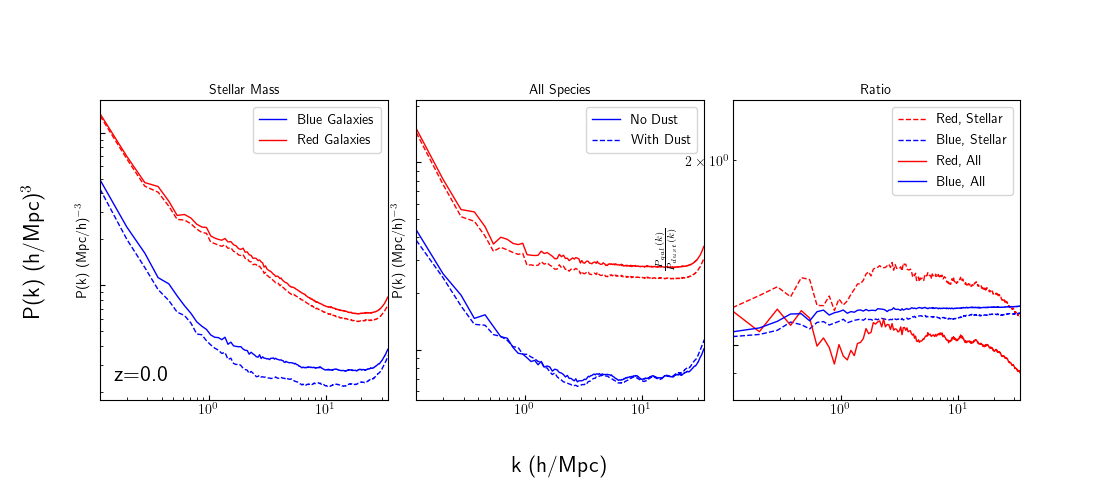
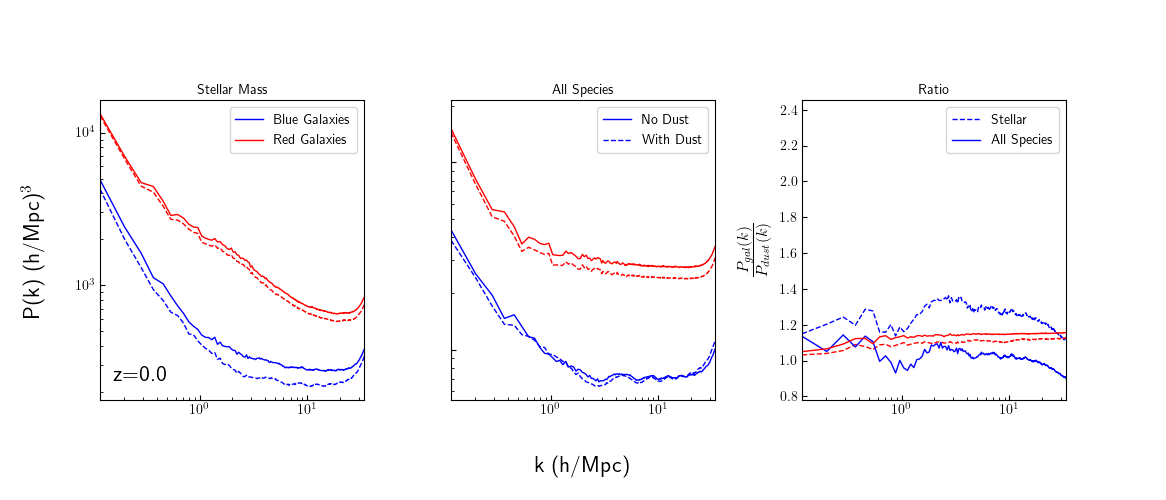
new plots!

diff --git a/hc_lib/plots/figures/galaxy_auto_pk.py b/hc_lib/plots/figures/galaxy_auto_pk.py
@@ -34,7 +34,7 @@ def get_suffix(field):
     suf = "%sB_%03dS_%dA_%dR"%tup
     return suf
 
-def galaxy_auto_redshift_vs_space(gals, panel_length = 3, panel_bt = 0.1, border = 1, fsize = 16):
+def galaxy_auto_redshift_vs_space(gals, panel_length = 3, panel_bt = 0.33, border = 1, fsize = 16):
     snapshots, redshifts = plib.getSnaps(gals)
     
     def match_snapshot(snapshot, fields):
@@ -47,7 +47,7 @@ def galaxy_auto_redshift_vs_space(gals, panel_length = 3, panel_bt = 0.1, border
     col_labels = ['Real Space', 'Redshift Space', 'Redshift Space Distortions']
     nrows = len(snapshots)
     ncols = len(col_labels)
-    fig, panels = plib.createFig(panel_length, nrows, ncols, panel_bt, 
+    fig, panels = plib.createFig(panel_length, nrows, ncols, [panel_bt*1.5, panel_bt], 
         border, border)
     
     yrange = [np.inf, 0]
@@ -60,8 +60,9 @@ def galaxy_auto_redshift_vs_space(gals, panel_length = 3, panel_bt = 0.1, border
             ax = plt.gca()
             colors = []
             labels = []
-
-            pkeys = plib.fetchKeys(['0.6', 'stmass'], ['rs','0.65','papa', 'all', 'eBOSS'], list(gal.pks.keys()))
+            #print(list(gal.pks.keys()))
+            pkeys = plib.fetchKeys(['0.6', 'stmass','CICW'], ['rs','0.65','papa', 'all', 'eBOSS'], list(gal.pks.keys()))
+            pkeys.append('resolved_CICW_stmass_diemer')
             if col_labels[j] == 'Redshift Space':
                 pkeys = [pkey + 'rs' for pkey in pkeys]
             for pkey in pkeys:
@@ -82,6 +83,7 @@ def galaxy_auto_redshift_vs_space(gals, panel_length = 3, panel_bt = 0.1, border
                     ratio_pks[pkey] = gal.pks[pkey+'rs']/gal.pks[pkey]
                 plib.plotpks(gal.pks['k'], ratio_pks, gal.box, gal.resolution,
                         pkeys, colors, labels)
+                plt.yscale('linear')
             else:
                 plib.plotpks(gal.pks['k'], gal.pks, gal.box, gal.resolution, pkeys,
                         colors, labels)
@@ -107,10 +109,11 @@ def galaxy_auto_redshift_vs_space(gals, panel_length = 3, panel_bt = 0.1, border
                     'z=%.1f'%redshifts[i], fontsize = fsize, ha = 'left', va = 'bottom',
                     fontweight = 'bold', transform = ax.transAxes)
             elif j == ncols - 1:
-                plt.ylabel(r'$\frac{P_{z}(k)}{P_{r}(k)}$')
-            
-            if not j == 0 or not j == ncols - 1:
+                plt.ylabel(r'$\frac{P_{z}(k)}{P_{r}(k)}$', fontsize=fsize)
+                ax.get_legend().remove()
+            else:
                 ax.set_yticklabels([])
+                ax.get_legend().remove()
 
 
     for i in range(nrows):
@@ -134,7 +137,7 @@ def dust_sensitivity_galaxy_resolution(gals, gdusts):
 
 
 def dust_sensitivity_color_cut(gals, gdusts, panel_length = 3, 
-        panel_bt = 0.1, border = 1, fsize=16):
+        panel_bt = 0.33, border = 1, fsize=16):
     snapshots, redshifts = plib.getSnaps(gals + gdusts)
     
     def match_snapshot(snapshot, fields):
@@ -174,9 +177,9 @@ def dust_sensitivity_color_cut(gals, gdusts, panel_length = 3,
                 
                 if cut == '0.65' or cut == "0.55":
                     other_cuts.remove(cut[:-1])
-                    pkeys = plib.fetchKeys([cut, 'stmass'], ['rs', 'resolved'] + other_cuts, galkeys)
+                    pkeys = plib.fetchKeys([cut, 'stmass', 'CICW'], ['rs', 'resolved'] + other_cuts, galkeys)
                 else:
-                    pkeys = plib.fetchKeys([cut], other_cuts + ['rs', 'resolved'], galkeys)
+                    pkeys = plib.fetchKeys([cut, 'stmass', 'CICW'], other_cuts + ['rs', 'resolved'], galkeys)
                     linestyles_dust = ['--']*len(pkeys)
 
                 for pkey in pkeys:
@@ -198,12 +201,17 @@ def dust_sensitivity_color_cut(gals, gdusts, panel_length = 3,
                             pkeys, colors=colors, labels=['No Dust'] + labels)
                     plib.plotpks(gdust.pks['k'], gdust.pks, gdust.box, gdust.resolution,
                         pkeys, labels=['With Dust']+labels, colors=colors, linestyles=linestyles_dust)
-                
+                else:
+                    plib.plotpks(gal.pks['k'], gal.pks, gal.box, gal.resolution, pkeys, colors=colors,
+                            labels=['']*len(pkeys))
+                    plib.plotpks(gdust.pks['k'], gdust.pks, gdust.box, gdust.resolution, pkeys, colors=colors,
+                            labels=['']*len(pkeys), linestyles=linestyles_dust)
                 ymin, ymax = ax.get_ylim()
                 if ymin > 0:
                     yrange[0] = min(yrange[0], ymin)
 
                 yrange[1] = max(yrange[1], ymax)
+                plt.ylabel('')
 
             elif j == ncols - 2:
                 ratio_pks = {}
@@ -289,12 +297,14 @@ def dust_sensitivity_color_cut(gals, gdusts, panel_length = 3,
 
                 plib.plotpks(gal.pks['k'], ratio_pks, gal.box, gal.resolution, 
                         pkeys, colors = colors, labels = labels, linestyles = linestyles)
-            
+                plt.yscale('linear')
             if i == 0:
                 ax.xaxis.set_label_position('top')
                 title = col_labels[j]
                 if title == 'papa':
                     title = 'Papastergis (2013)'
+                if title == 'nelson':
+                    title = 'Nelson (2018)'
                 plt.xlabel(title)
                 plt.legend(loc = 'upper right')
             else:
@@ -306,10 +316,10 @@ def dust_sensitivity_color_cut(gals, gdusts, panel_length = 3,
                 plt.text(0.05, 0.05,
                     'z=%.1f'%redshifts[i], fontsize = fsize, ha = 'left', va = 'bottom',
                     fontweight = 'bold', transform = ax.transAxes)
-            elif j == ncols - 1:
-                plt.ylabel(r'$\frac{P_{gal}(k)}{P_{dust}(k)}$')
+            elif j == ncols - 1 or j == ncols - 2:
+                plt.ylabel(r'$\frac{P_{gal}(k)}{P_{dust}(k)}$', fontsize=fsize)
             
-            if not j == 0 or not j == ncols - 1:
+            else:
                 ax.set_yticklabels([])
 
 
@@ -323,13 +333,13 @@ def dust_sensitivity_color_cut(gals, gdusts, panel_length = 3,
             va = 'center', fontsize = fsize, rotation = 'vertical')
     fig.text(0.5, border/3/figsize[1], r'k (h/Mpc)', ha = 'center',
             va = 'center', fontsize = fsize)
-    plt.savefig('dust_sensitivity_space_%s.png'%get_suffix(gal))
+    plt.savefig('dust_sensitivity_color_cut_%s.png'%get_suffix(gal))
     plt.clf()      
     return
 
 
 def dust_sensitivity_stmass(gals, gdusts, panel_length = 3, 
-        panel_bt = 0.1, border = 1, fsize=16):
+        panel_bt = 0.33, border = 1, fsize=16):
     snapshots, redshifts = plib.getSnaps(gals + gdusts)
     
     def match_snapshot(snapshot, fields):
@@ -442,9 +452,9 @@ def dust_sensitivity_stmass(gals, gdusts, panel_length = 3,
                     'z=%.1f'%redshifts[i], fontsize = fsize, ha = 'left', va = 'bottom',
                     fontweight = 'bold', transform = ax.transAxes)
             elif j == ncols - 1:
-                plt.ylabel(r'$\frac{P_{gal}(k)}{P_{dust}(k)}$')
+                plt.ylabel(r'$\frac{P_{gal}(k)}{P_{dust}(k)}$', fontsize=fsize)
             
-            if not j == 0 or not j == ncols - 1:
+            else:
                 ax.set_yticklabels([])
 
 
@@ -463,7 +473,7 @@ def dust_sensitivity_stmass(gals, gdusts, panel_length = 3,
     return
 
 def dust_sensitivity_space(gals, gdusts, panel_length = 3, 
-        panel_bt = 0.1, border = 1, fsize=16):
+        panel_bt = 0.5, border = 1, fsize=16):
     snapshots, redshifts = plib.getSnaps(gals + gdusts)
     
     def match_snapshot(snapshot, fields):
@@ -565,6 +575,7 @@ def dust_sensitivity_space(gals, gdusts, panel_length = 3,
 
                 plib.plotpks(gal.pks['k'], ratio_pks, gal.box, gal.resolution, 
                         pkeys, colors = colors, labels = labels, linestyles = linestyles)
+                plt.yscale('linear')
             
             ax = plt.gca()
             
@@ -583,9 +594,9 @@ def dust_sensitivity_space(gals, gdusts, panel_length = 3,
                     'z=%.1f'%redshifts[i], fontsize = fsize, ha = 'left', va = 'bottom',
                     fontweight = 'bold', transform = ax.transAxes)
             elif j == ncols - 1:
-                plt.ylabel(r'$\frac{P_{gal}(k)}{P_{dust}(k)}$')
+                plt.ylabel(r'$\frac{P_{gal}(k)}{P_{dust}(k)}$', fontsize = fsize)
             
-            if not j == 0 or not j == ncols - 1:
+            else:
                 ax.set_yticklabels([])
 
 
